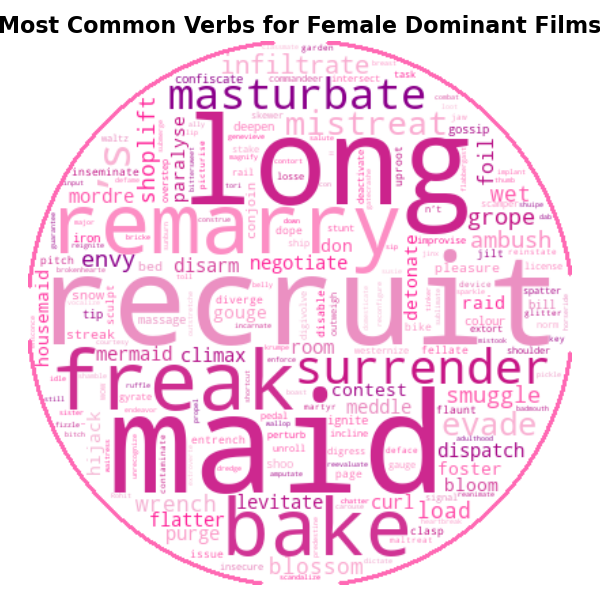
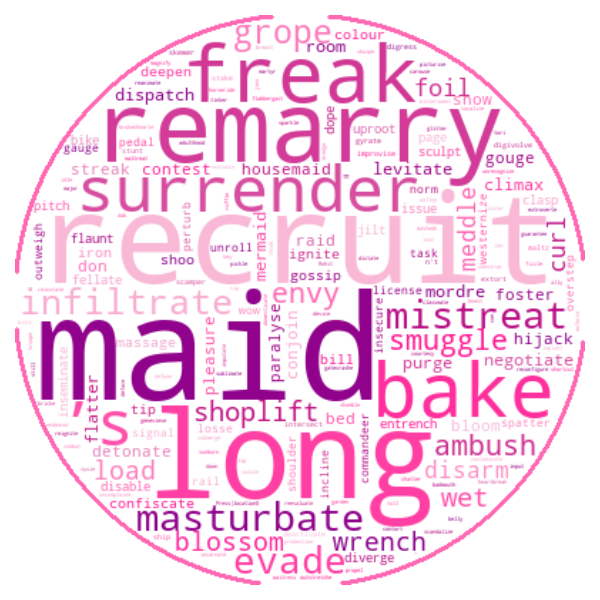
removing wordcloud title, fixing bug

diff --git a/README.md b/README.md
@@ -111,18 +111,18 @@ Well, it is highly skewed right, but that’s no real surprise anymore based on 
     </figure>
     <figure id="ma" style="text-align: center;">
         <img src="figs/male_adj_wordcloud.png" alt="Most Common Adjectives for Male Characters" style="width:400px; height:auto;">
-        <figcaption style="margin-top: 8px;">Most Common adjective lemmas for movies with more than two thirds female characters</figcaption>
+        <figcaption style="margin-top: 8px;">Most Common adjective lemmas for movies with more than two thirds male characters</figcaption>
     </figure>
 </div>
 
 <div style="display: flex; justify-content: center; gap: 20px; align-items: center; margin-top: 20px;">
     <figure id="fv" style="text-align: center;">
-        <img src="figs/female_adj_wordcloud.png" alt="Most Common Verbs for Female Characters" style="width:400px; height:auto;">
+        <img src="figs/female_verb_wordcloud.png" alt="Most Common Verbs for Female Characters" style="width:400px; height:auto;">
         <figcaption style="margin-top: 8px;">Most Common verb lemmas for movies with more than two thirds female characters</figcaption>
     </figure>
     <figure id="mv" style="text-align: center;">
-        <img src="figs/male_adj_wordcloud.png" alt="Most Common Verbs for Male Characters" style="width:400px; height:auto;">
-        <figcaption style="margin-top: 8px;">Most Common verb lemmas for movies with more than two thirds female characters</figcaption>
+        <img src="figs/male_verb_wordcloud.png" alt="Most Common Verbs for Male Characters" style="width:400px; height:auto;">
+        <figcaption style="margin-top: 8px;">Most Common verb lemmas for movies with more than two thirds male characters</figcaption>
     </figure>
 </div>
 
